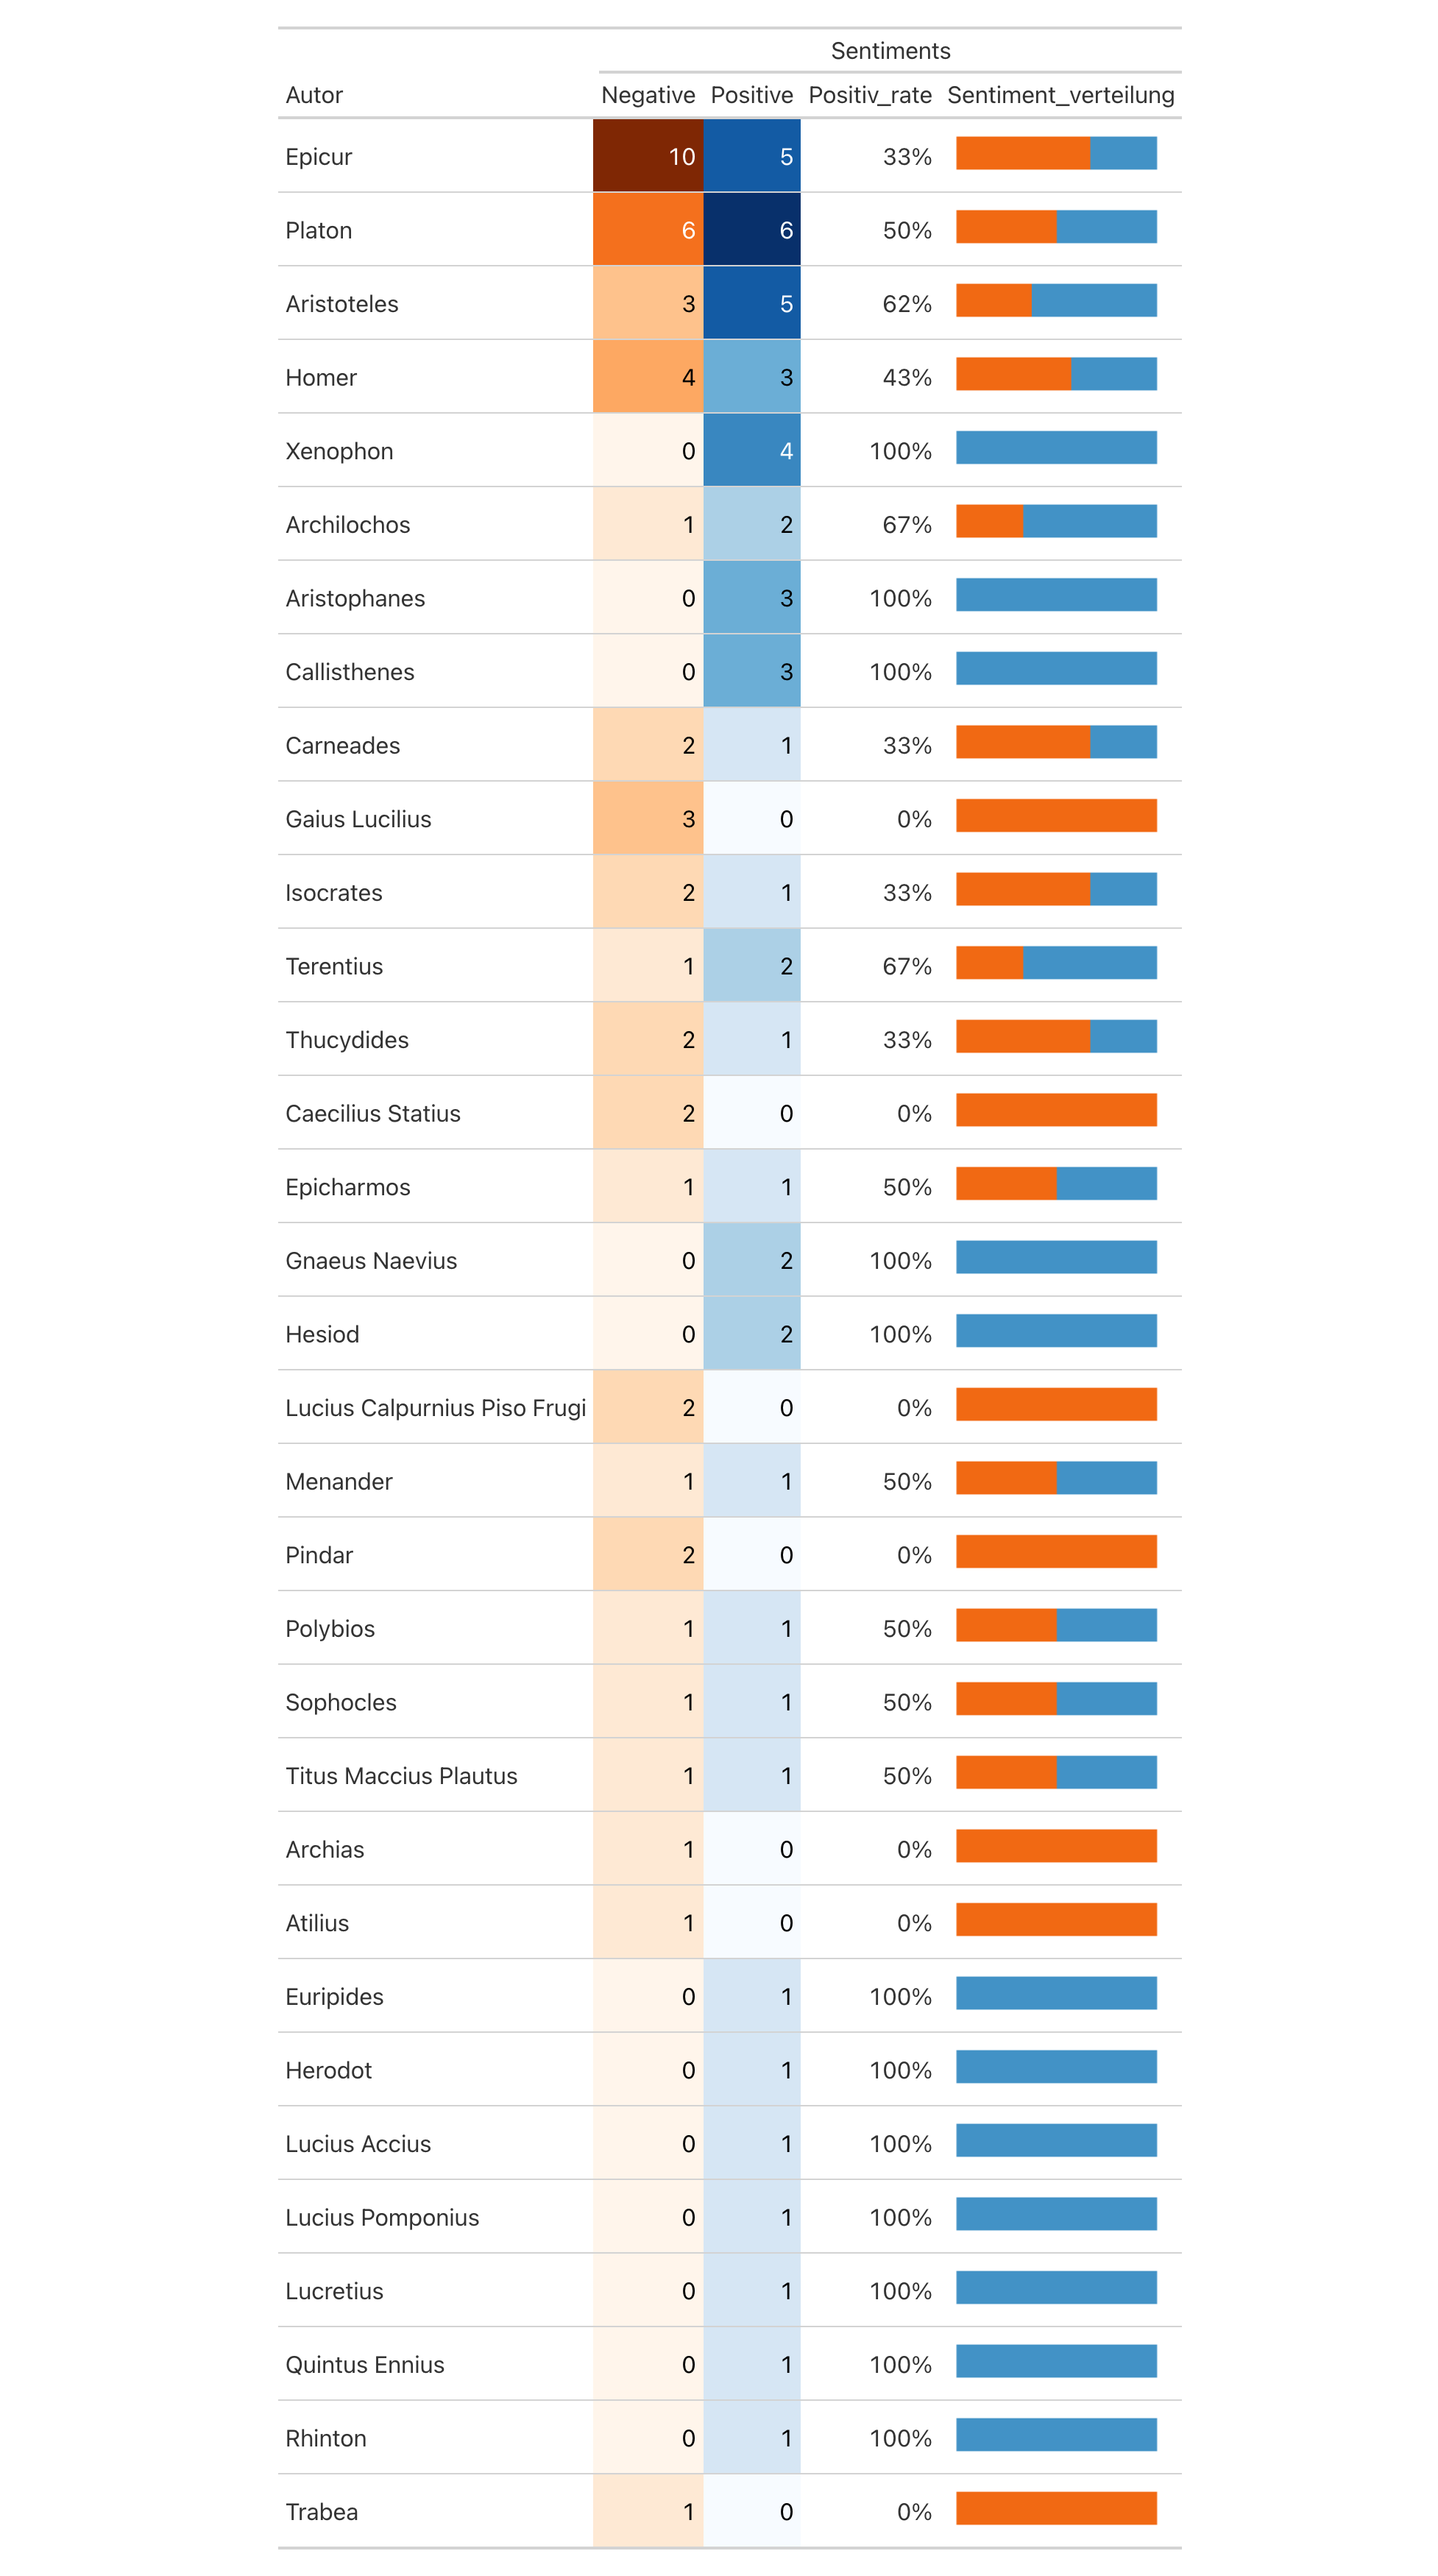
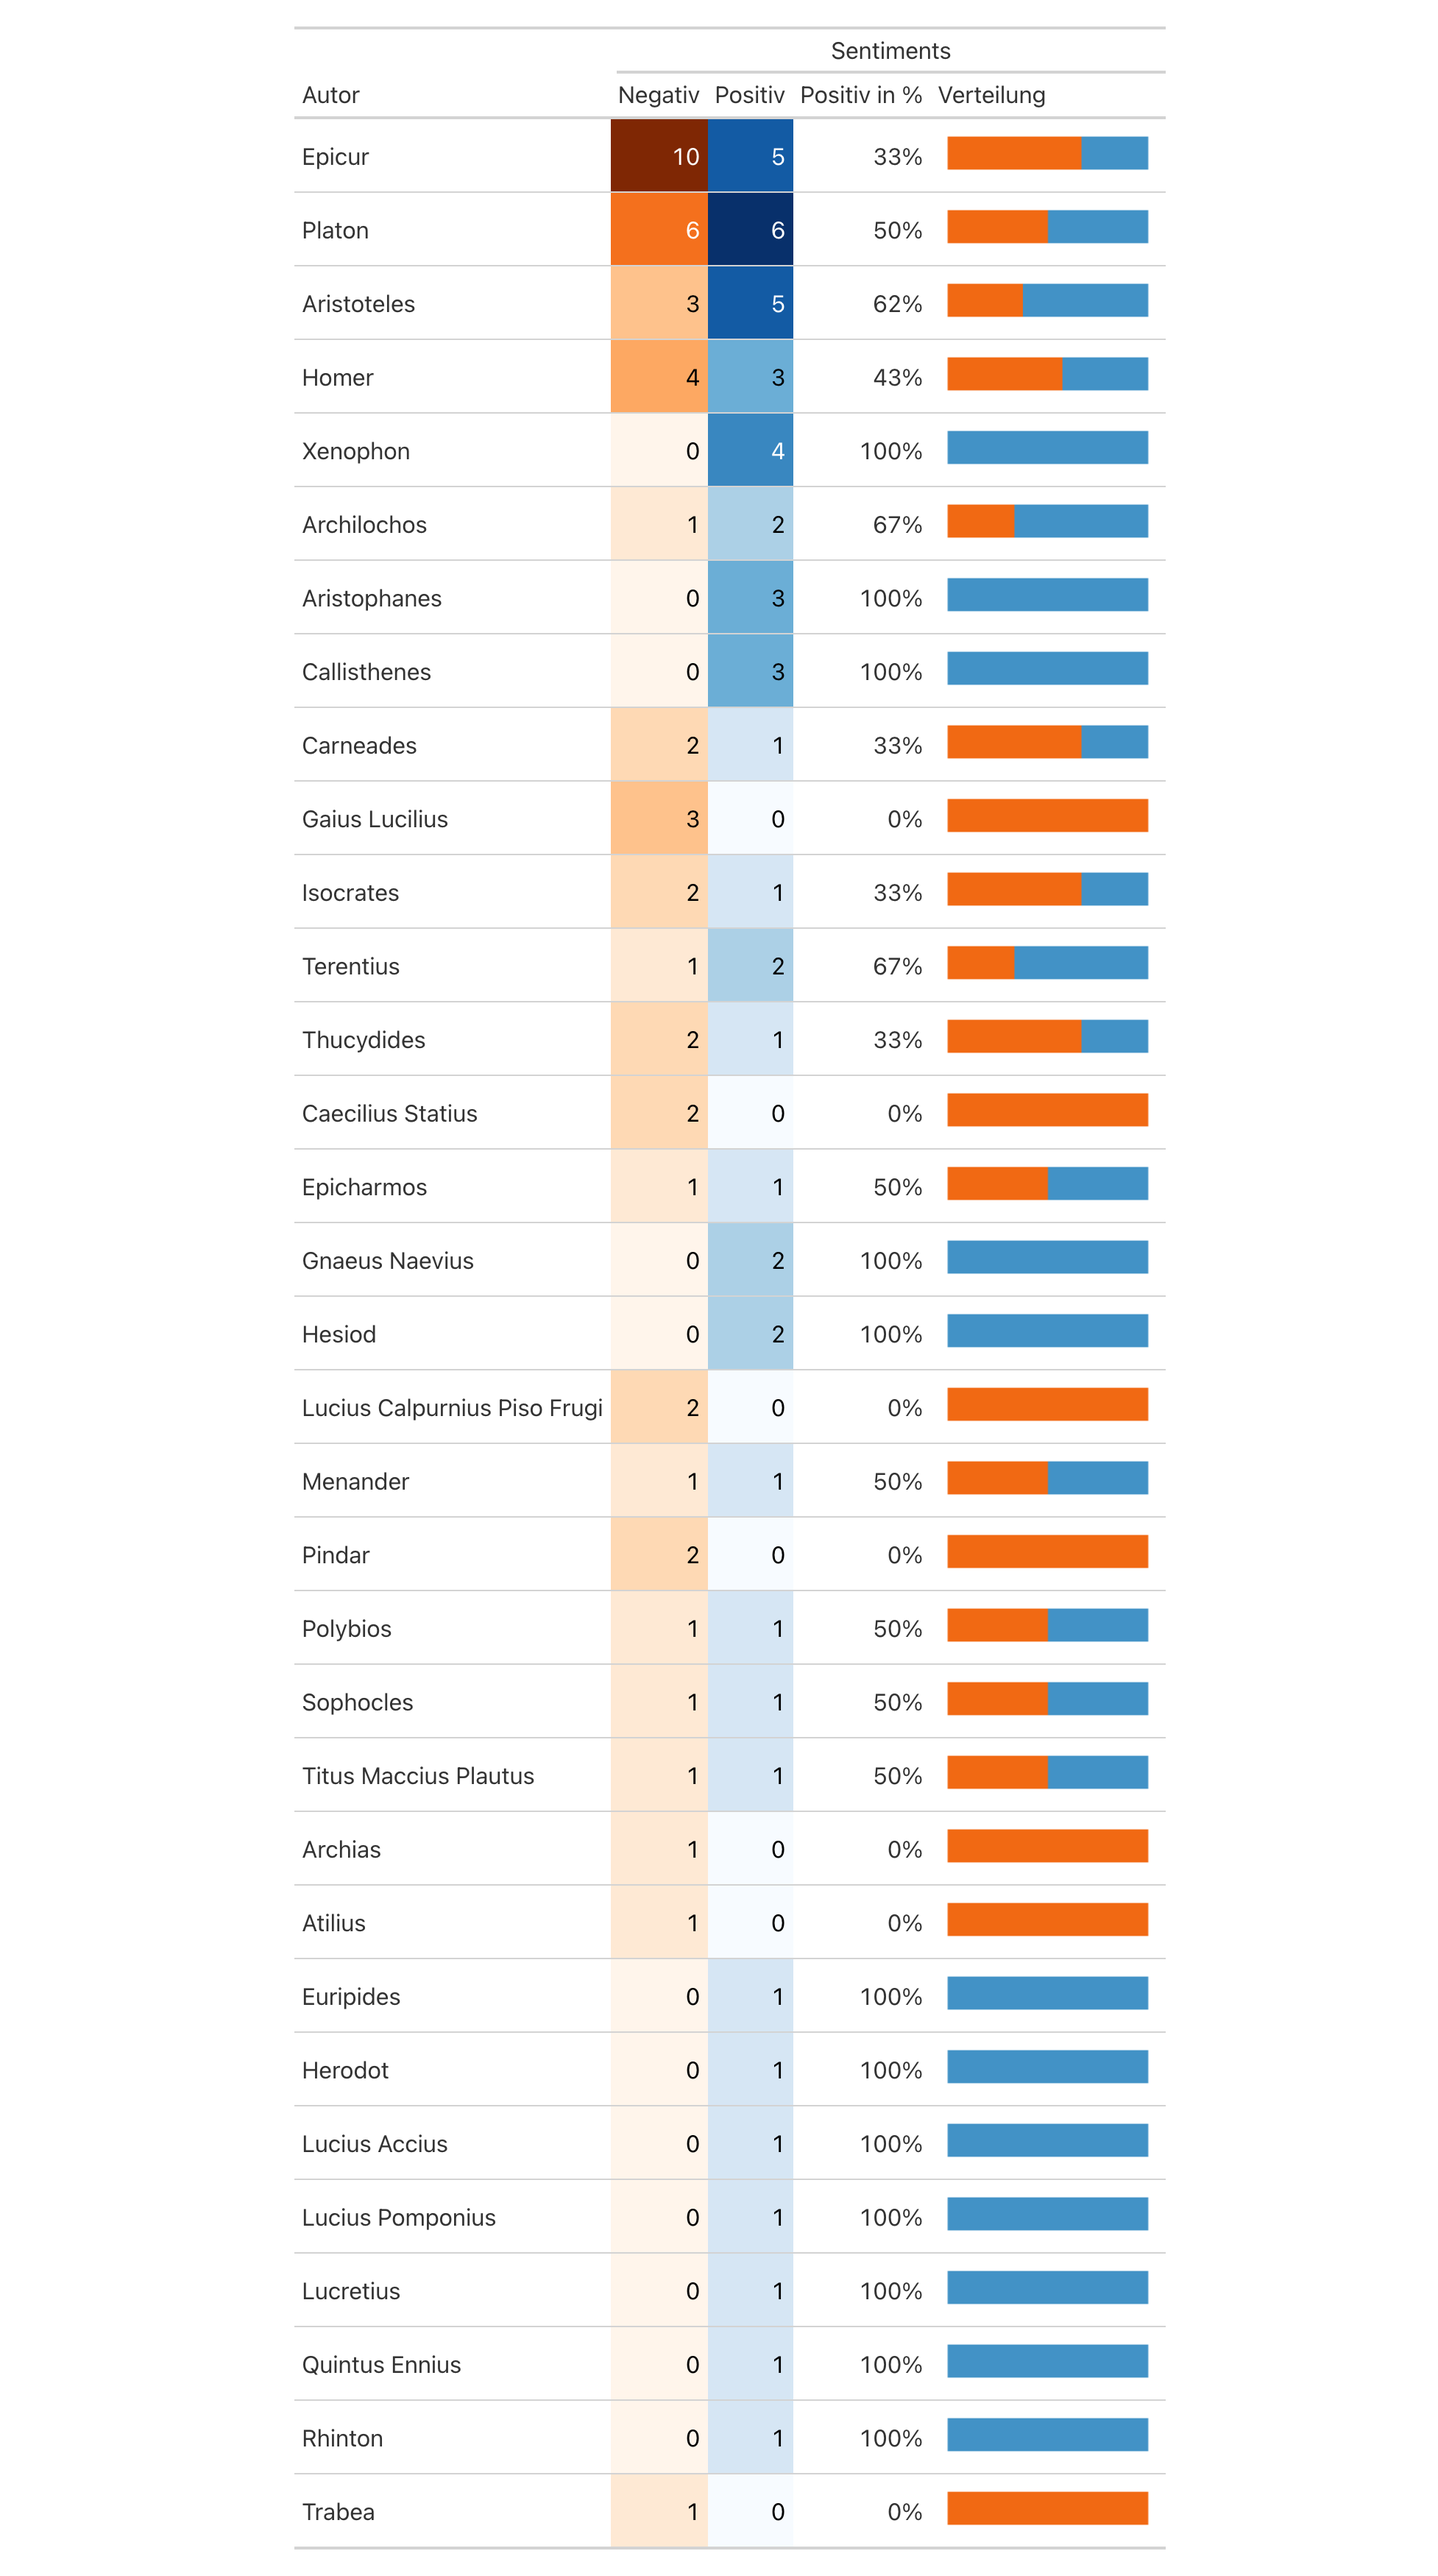
Column Labels updated

diff --git a/tabelle_sentiments.html b/tabelle_sentiments.html
@@ -7,23 +7,23 @@
 
 </head>
 <body>
-<div id="iqwnixkeyo" style="padding-left:0px;padding-right:0px;padding-top:10px;padding-bottom:10px;overflow-x:auto;overflow-y:auto;width:auto;height:auto;">
-  <style>#iqwnixkeyo table {
+<div id="enttuedpkl" style="padding-left:0px;padding-right:0px;padding-top:10px;padding-bottom:10px;overflow-x:auto;overflow-y:auto;width:auto;height:auto;">
+  <style>#enttuedpkl table {
   font-family: system-ui, 'Segoe UI', Roboto, Helvetica, Arial, sans-serif, 'Apple Color Emoji', 'Segoe UI Emoji', 'Segoe UI Symbol', 'Noto Color Emoji';
   -webkit-font-smoothing: antialiased;
   -moz-osx-font-smoothing: grayscale;
 }
 
-#iqwnixkeyo thead, #iqwnixkeyo tbody, #iqwnixkeyo tfoot, #iqwnixkeyo tr, #iqwnixkeyo td, #iqwnixkeyo th {
+#enttuedpkl thead, #enttuedpkl tbody, #enttuedpkl tfoot, #enttuedpkl tr, #enttuedpkl td, #enttuedpkl th {
   border-style: none;
 }
 
-#iqwnixkeyo p {
+#enttuedpkl p {
   margin: 0;
   padding: 0;
 }
 
-#iqwnixkeyo .gt_table {
+#enttuedpkl .gt_table {
   display: table;
   border-collapse: collapse;
   line-height: normal;
@@ -49,12 +49,12 @@
   border-left-color: #D3D3D3;
 }
 
-#iqwnixkeyo .gt_caption {
+#enttuedpkl .gt_caption {
   padding-top: 4px;
   padding-bottom: 4px;
 }
 
-#iqwnixkeyo .gt_title {
+#enttuedpkl .gt_title {
   color: #333333;
   font-size: 125%;
   font-weight: initial;
@@ -66,7 +66,7 @@
   border-bottom-width: 0;
 }
 
-#iqwnixkeyo .gt_subtitle {
+#enttuedpkl .gt_subtitle {
   color: #333333;
   font-size: 85%;
   font-weight: initial;
@@ -78,7 +78,7 @@
   border-top-width: 0;
 }
 
-#iqwnixkeyo .gt_heading {
+#enttuedpkl .gt_heading {
   background-color: #FFFFFF;
   text-align: center;
   border-bottom-color: #FFFFFF;
@@ -90,13 +90,13 @@
   border-right-color: #D3D3D3;
 }
 
-#iqwnixkeyo .gt_bottom_border {
+#enttuedpkl .gt_bottom_border {
   border-bottom-style: solid;
   border-bottom-width: 2px;
   border-bottom-color: #D3D3D3;
 }
 
-#iqwnixkeyo .gt_col_headings {
+#enttuedpkl .gt_col_headings {
   border-top-style: solid;
   border-top-width: 2px;
   border-top-color: #D3D3D3;
@@ -111,7 +111,7 @@
   border-right-color: #D3D3D3;
 }
 
-#iqwnixkeyo .gt_col_heading {
+#enttuedpkl .gt_col_heading {
   color: #333333;
   background-color: #FFFFFF;
   font-size: 100%;
@@ -131,7 +131,7 @@
   overflow-x: hidden;
 }
 
-#iqwnixkeyo .gt_column_spanner_outer {
+#enttuedpkl .gt_column_spanner_outer {
   color: #333333;
   background-color: #FFFFFF;
   font-size: 100%;
@@ -143,15 +143,15 @@
   padding-right: 4px;
 }
 
-#iqwnixkeyo .gt_column_spanner_outer:first-child {
+#enttuedpkl .gt_column_spanner_outer:first-child {
   padding-left: 0;
 }
 
-#iqwnixkeyo .gt_column_spanner_outer:last-child {
+#enttuedpkl .gt_column_spanner_outer:last-child {
   padding-right: 0;
 }
 
-#iqwnixkeyo .gt_column_spanner {
+#enttuedpkl .gt_column_spanner {
   border-bottom-style: solid;
   border-bottom-width: 2px;
   border-bottom-color: #D3D3D3;
@@ -163,11 +163,11 @@
   width: 100%;
 }
 
-#iqwnixkeyo .gt_spanner_row {
+#enttuedpkl .gt_spanner_row {
   border-bottom-style: hidden;
 }
 
-#iqwnixkeyo .gt_group_heading {
+#enttuedpkl .gt_group_heading {
   padding-top: 8px;
   padding-bottom: 8px;
   padding-left: 5px;
@@ -193,7 +193,7 @@
   text-align: left;
 }
 
-#iqwnixkeyo .gt_empty_group_heading {
+#enttuedpkl .gt_empty_group_heading {
   padding: 0.5px;
   color: #333333;
   background-color: #FFFFFF;
@@ -208,15 +208,15 @@
   vertical-align: middle;
 }
 
-#iqwnixkeyo .gt_from_md > :first-child {
+#enttuedpkl .gt_from_md > :first-child {
   margin-top: 0;
 }
 
-#iqwnixkeyo .gt_from_md > :last-child {
+#enttuedpkl .gt_from_md > :last-child {
   margin-bottom: 0;
 }
 
-#iqwnixkeyo .gt_row {
+#enttuedpkl .gt_row {
   padding-top: 8px;
   padding-bottom: 8px;
   padding-left: 5px;
@@ -235,7 +235,7 @@
   overflow-x: hidden;
 }
 
-#iqwnixkeyo .gt_stub {
+#enttuedpkl .gt_stub {
   color: #333333;
   background-color: #FFFFFF;
   font-size: 100%;
@@ -248,7 +248,7 @@
   padding-right: 5px;
 }
 
-#iqwnixkeyo .gt_stub_row_group {
+#enttuedpkl .gt_stub_row_group {
   color: #333333;
   background-color: #FFFFFF;
   font-size: 100%;
@@ -262,15 +262,15 @@
   vertical-align: top;
 }
 
-#iqwnixkeyo .gt_row_group_first td {
+#enttuedpkl .gt_row_group_first td {
   border-top-width: 2px;
 }
 
-#iqwnixkeyo .gt_row_group_first th {
+#enttuedpkl .gt_row_group_first th {
   border-top-width: 2px;
 }
 
-#iqwnixkeyo .gt_summary_row {
+#enttuedpkl .gt_summary_row {
   color: #333333;
   background-color: #FFFFFF;
   text-transform: inherit;
@@ -280,16 +280,16 @@
   padding-right: 5px;
 }
 
-#iqwnixkeyo .gt_first_summary_row {
+#enttuedpkl .gt_first_summary_row {
   border-top-style: solid;
   border-top-color: #D3D3D3;
 }
 
-#iqwnixkeyo .gt_first_summary_row.thick {
+#enttuedpkl .gt_first_summary_row.thick {
   border-top-width: 2px;
 }
 
-#iqwnixkeyo .gt_last_summary_row {
+#enttuedpkl .gt_last_summary_row {
   padding-top: 8px;
   padding-bottom: 8px;
   padding-left: 5px;
@@ -299,7 +299,7 @@
   border-bottom-color: #D3D3D3;
 }
 
-#iqwnixkeyo .gt_grand_summary_row {
+#enttuedpkl .gt_grand_summary_row {
   color: #333333;
   background-color: #FFFFFF;
   text-transform: inherit;
@@ -309,7 +309,7 @@
   padding-right: 5px;
 }
 
-#iqwnixkeyo .gt_first_grand_summary_row {
+#enttuedpkl .gt_first_grand_summary_row {
   padding-top: 8px;
   padding-bottom: 8px;
   padding-left: 5px;
@@ -319,7 +319,7 @@
   border-top-color: #D3D3D3;
 }
 
-#iqwnixkeyo .gt_last_grand_summary_row_top {
+#enttuedpkl .gt_last_grand_summary_row_top {
   padding-top: 8px;
   padding-bottom: 8px;
   padding-left: 5px;
@@ -329,11 +329,11 @@
   border-bottom-color: #D3D3D3;
 }
 
-#iqwnixkeyo .gt_striped {
+#enttuedpkl .gt_striped {
   background-color: rgba(128, 128, 128, 0.05);
 }
 
-#iqwnixkeyo .gt_table_body {
+#enttuedpkl .gt_table_body {
   border-top-style: solid;
   border-top-width: 2px;
   border-top-color: #D3D3D3;
@@ -342,7 +342,7 @@
   border-bottom-color: #D3D3D3;
 }
 
-#iqwnixkeyo .gt_footnotes {
+#enttuedpkl .gt_footnotes {
   color: #333333;
   background-color: #FFFFFF;
   border-bottom-style: none;
@@ -356,7 +356,7 @@
   border-right-color: #D3D3D3;
 }
 
-#iqwnixkeyo .gt_footnote {
+#enttuedpkl .gt_footnote {
   margin: 0px;
   font-size: 90%;
   padding-top: 4px;
@@ -365,7 +365,7 @@
   padding-right: 5px;
 }
 
-#iqwnixkeyo .gt_sourcenotes {
+#enttuedpkl .gt_sourcenotes {
   color: #333333;
   background-color: #FFFFFF;
   border-bottom-style: none;
@@ -379,7 +379,7 @@
   border-right-color: #D3D3D3;
 }
 
-#iqwnixkeyo .gt_sourcenote {
+#enttuedpkl .gt_sourcenote {
   font-size: 90%;
   padding-top: 4px;
   padding-bottom: 4px;
@@ -387,72 +387,72 @@
   padding-right: 5px;
 }
 
-#iqwnixkeyo .gt_left {
+#enttuedpkl .gt_left {
   text-align: left;
 }
 
-#iqwnixkeyo .gt_center {
+#enttuedpkl .gt_center {
   text-align: center;
 }
 
-#iqwnixkeyo .gt_right {
+#enttuedpkl .gt_right {
   text-align: right;
   font-variant-numeric: tabular-nums;
 }
 
-#iqwnixkeyo .gt_font_normal {
+#enttuedpkl .gt_font_normal {
   font-weight: normal;
 }
 
-#iqwnixkeyo .gt_font_bold {
+#enttuedpkl .gt_font_bold {
   font-weight: bold;
 }
 
-#iqwnixkeyo .gt_font_italic {
+#enttuedpkl .gt_font_italic {
   font-style: italic;
 }
 
-#iqwnixkeyo .gt_super {
+#enttuedpkl .gt_super {
   font-size: 65%;
 }
 
-#iqwnixkeyo .gt_footnote_marks {
+#enttuedpkl .gt_footnote_marks {
   font-size: 75%;
   vertical-align: 0.4em;
   position: initial;
 }
 
-#iqwnixkeyo .gt_asterisk {
+#enttuedpkl .gt_asterisk {
   font-size: 100%;
   vertical-align: 0;
 }
 
-#iqwnixkeyo .gt_indent_1 {
+#enttuedpkl .gt_indent_1 {
   text-indent: 5px;
 }
 
-#iqwnixkeyo .gt_indent_2 {
+#enttuedpkl .gt_indent_2 {
   text-indent: 10px;
 }
 
-#iqwnixkeyo .gt_indent_3 {
+#enttuedpkl .gt_indent_3 {
   text-indent: 15px;
 }
 
-#iqwnixkeyo .gt_indent_4 {
+#enttuedpkl .gt_indent_4 {
   text-indent: 20px;
 }
 
-#iqwnixkeyo .gt_indent_5 {
+#enttuedpkl .gt_indent_5 {
   text-indent: 25px;
 }
 
-#iqwnixkeyo .katex-display {
+#enttuedpkl .katex-display {
   display: inline-flex !important;
   margin-bottom: 0.75em !important;
 }
 
-#iqwnixkeyo div.Reactable > div.rt-table > div.rt-thead > div.rt-tr.rt-tr-group-header > div.rt-th-group:after {
+#enttuedpkl div.Reactable > div.rt-table > div.rt-thead > div.rt-tr.rt-tr-group-header > div.rt-th-group:after {
   height: 0px !important;
 }
 </style>
@@ -465,10 +465,10 @@
       </th>
     </tr>
     <tr class="gt_col_headings">
-      <th class="gt_col_heading gt_columns_bottom_border gt_right" rowspan="1" colspan="1" scope="col" id="NEGATIVE">Negative</th>
-      <th class="gt_col_heading gt_columns_bottom_border gt_right" rowspan="1" colspan="1" scope="col" id="POSITIVE">Positive</th>
-      <th class="gt_col_heading gt_columns_bottom_border gt_right" rowspan="1" colspan="1" scope="col" id="positiv_rate">Positiv_rate</th>
-      <th class="gt_col_heading gt_columns_bottom_border gt_left" rowspan="1" colspan="1" scope="col" id="Sentiment_Verteilung">Sentiment_verteilung</th>
+      <th class="gt_col_heading gt_columns_bottom_border gt_right" rowspan="1" colspan="1" scope="col" id="NEGATIVE">Negativ</th>
+      <th class="gt_col_heading gt_columns_bottom_border gt_right" rowspan="1" colspan="1" scope="col" id="POSITIVE">Positiv</th>
+      <th class="gt_col_heading gt_columns_bottom_border gt_right" rowspan="1" colspan="1" scope="col" id="positiv_rate">Positiv in %</th>
+      <th class="gt_col_heading gt_columns_bottom_border gt_left" rowspan="1" colspan="1" scope="col" id="Sentiment_Verteilung">Verteilung</th>
     </tr>
   </thead>
   <tbody class="gt_table_body">
